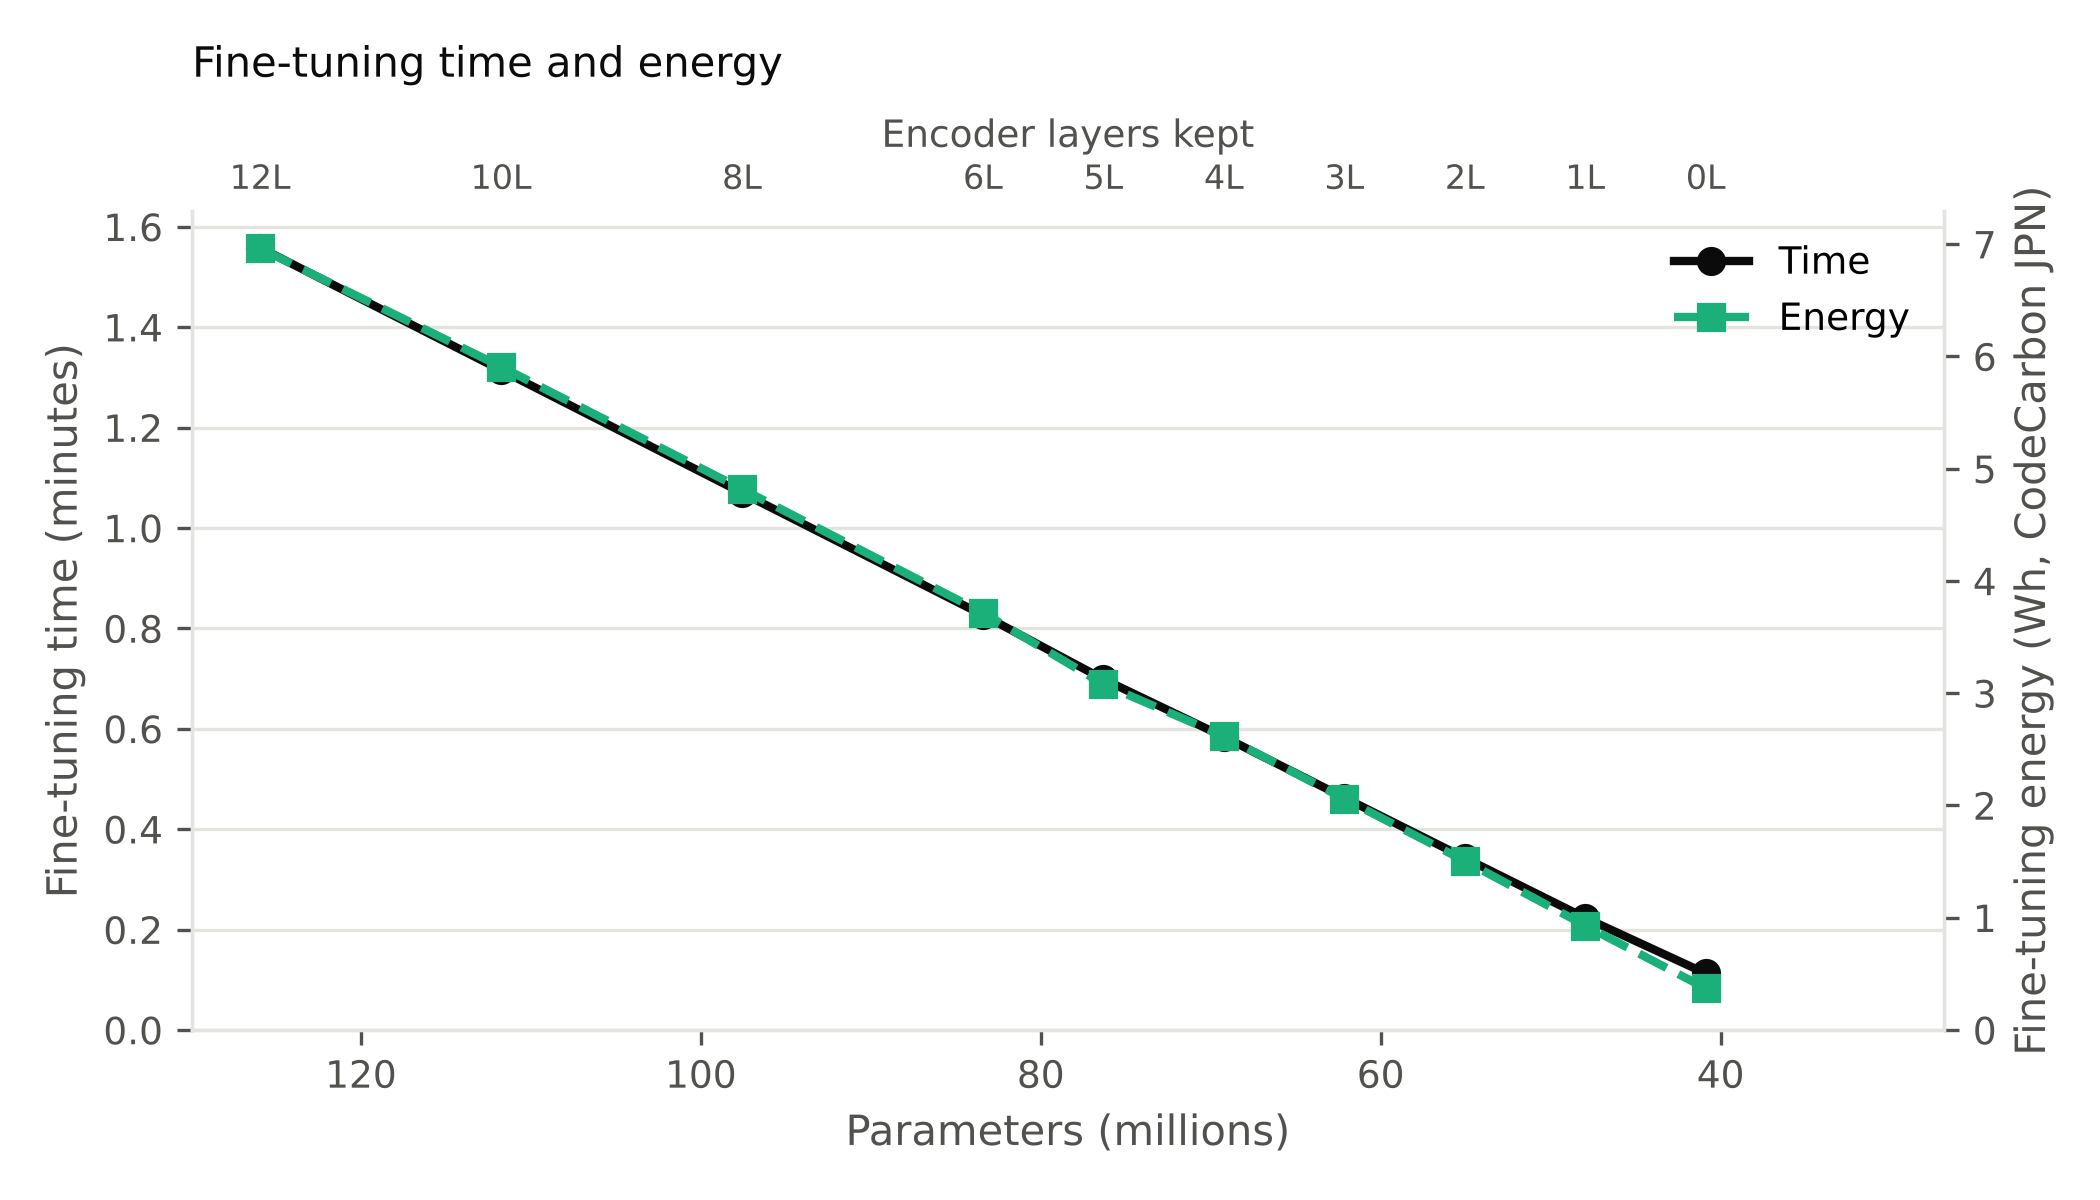
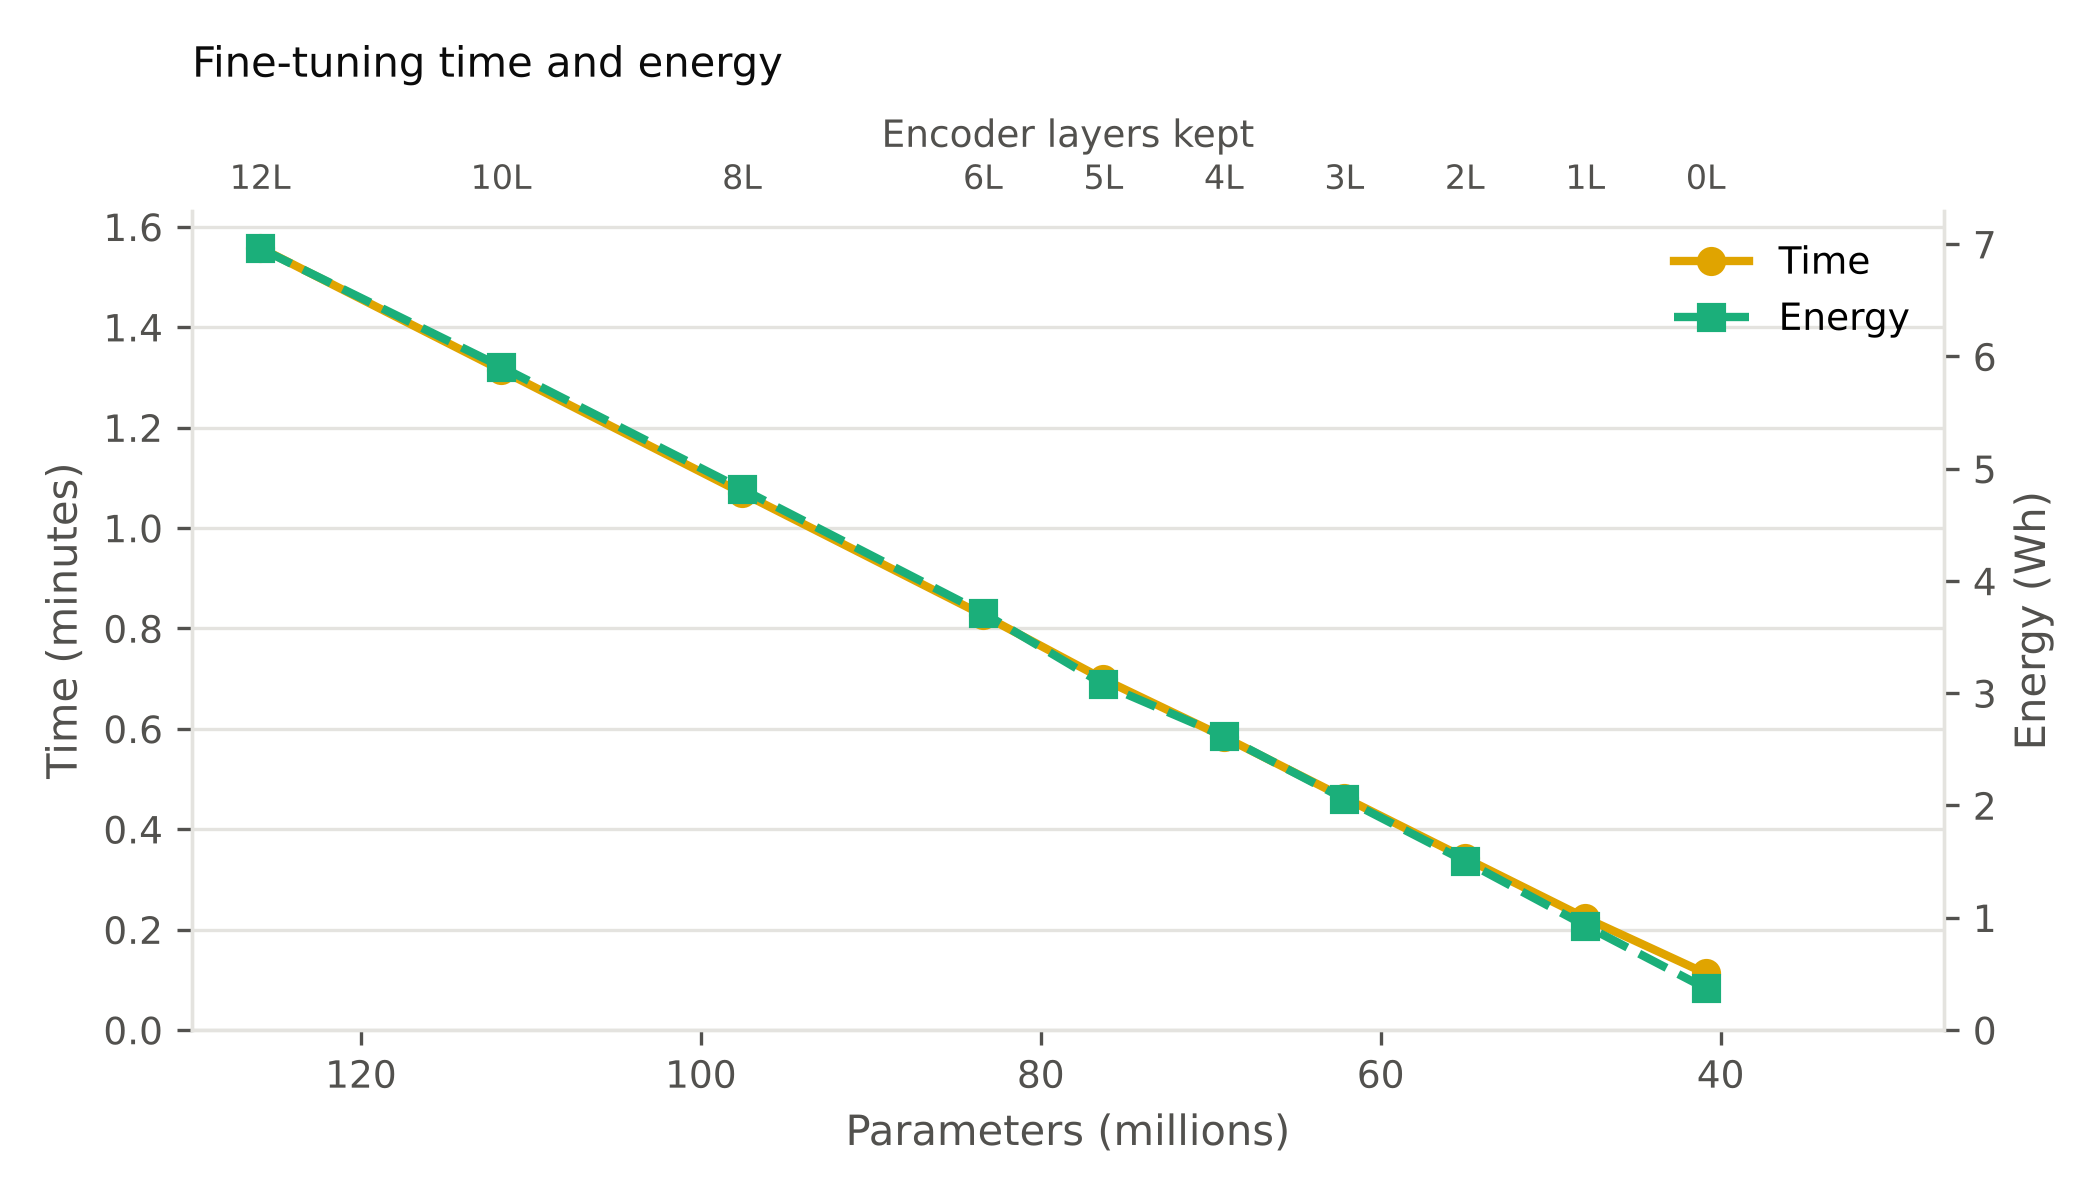
Color the time line amber and shorten the axis labels of the cost figure
Claude-Session: https://claude.ai/code/session_017rhwVyM5rhv5k17AN45Ux5

diff --git a/scripts/3_model_size.py b/scripts/3_model_size.py
@@ -54,6 +54,8 @@ CONFIG_COLUMNS = ["representation", "head", "epochs", "lr", "batch_size", "grad_
 ACC_COLOR = "#2a78d6"
 F1_COLOR = "#eb6834"
 ENERGY_COLOR = "#1baf7a"
+# Amber rather than pure yellow, which is hard to see on white
+TIME_COLOR = "#e0a400"
 INK = "#0b0b0b"
 MUTED = "#52514e"
 GRID = "#e4e3df"
@@ -331,9 +333,9 @@ def plot(results, out_scores, out_cost):
     # Fine-tuning time and energy; energy only when CodeCarbon measured every run
     has_energy = all(r.get("energy_kwh") not in (None, "") for r in results)
     fig, ax = plt.subplots(figsize=(7, 4.0))
-    draw(ax, "train_seconds", INK, scale=1 / 60, dots=False)
-    ax.plot([], [], color=INK, linewidth=2, marker="o", markersize=6, label="Time")
-    ax.set_ylabel("Fine-tuning time (minutes)", color=MUTED)
+    draw(ax, "train_seconds", TIME_COLOR, scale=1 / 60, dots=False)
+    ax.plot([], [], color=TIME_COLOR, linewidth=2, marker="o", markersize=6, label="Time")
+    ax.set_ylabel("Time (minutes)", color=MUTED)
     ax.set_ylim(bottom=0)
     twin = None
     if has_energy:
@@ -341,8 +343,8 @@ def plot(results, out_scores, out_cost):
         draw(twin, "energy_kwh", ENERGY_COLOR, scale=1000, linestyle="--", marker="s", dots=False)
         ax.plot([], [], color=ENERGY_COLOR, linewidth=2, linestyle="--", marker="s", markersize=6,
                 label="Energy")
-        country = ", ".join(sorted({r["country"] for r in results if r.get("country")}))
-        twin.set_ylabel(f"Fine-tuning energy (Wh{', CodeCarbon ' + country if country else ''})", color=MUTED)
+        # Energy is measured by CodeCarbon (column country gives the grid used for the emissions)
+        twin.set_ylabel("Energy (Wh)", color=MUTED)
         twin.set_ylim(bottom=0)
     ax.legend(frameon=False, loc="upper right", fontsize=9)
     frame(fig, ax, "Fine-tuning time and energy" if has_energy else "Fine-tuning time", twin)
